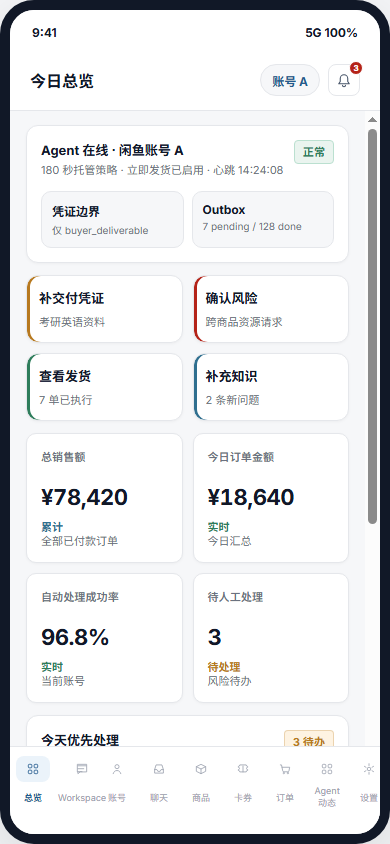
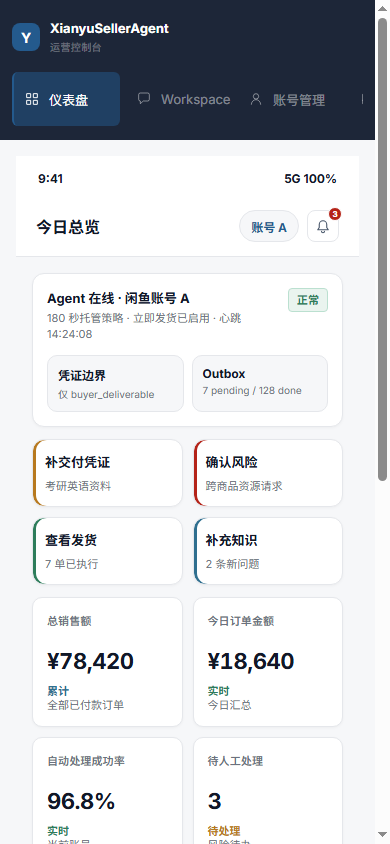
fix(仪表盘): 适配共享应用壳层

diff --git a/apps/web/src/features/dashboard/components/DashboardPage.tsx b/apps/web/src/features/dashboard/components/DashboardPage.tsx
@@ -1,9 +1,8 @@
 import { useState } from 'react';
 import type { PageKey } from '../../../app/navigation';
-import { navItems } from '../../../app/navigation';
 import type { DashboardApi } from '../api';
 import { useDashboardController } from '../controller';
-import { DashboardDesktopContent, DashboardMobileContent, Icon, Logo } from './DashboardViews';
+import { DashboardDesktopContent, DashboardMobileContent, Icon } from './DashboardViews';
 import './dashboard.css';
 
 export function DashboardPage({ api, apiMode, onNavigate }: { api?: DashboardApi; apiMode: 'live' | 'mock'; onNavigate: (page: PageKey) => void }) {
@@ -21,26 +20,14 @@ export function DashboardPage({ api, apiMode, onNavigate }: { api?: DashboardApi
 
   const activeTodo = controller.state.data?.riskTodos.find((item) => item.id === riskDrawer);
   return <div className="dashboard-experience">
-    <div className="dashboard-desktop-shell">
-      <DashboardSidebar page="dashboard" onNavigate={onNavigate}/>
-      <div className="dashboard-desktop-body"><main><DashboardDesktopContent state={controller.state} query={controller.query} apiMode={apiMode} onOpenTodo={openTodo} onRefresh={controller.reload} onTrendQueryChange={controller.setQuery}/></main></div>
-    </div>
-    <div className="dashboard-mobile-frame">
+    <div className="dashboard-desktop-content"><DashboardDesktopContent state={controller.state} query={controller.query} apiMode={apiMode} onOpenTodo={openTodo} onRefresh={controller.reload} onTrendQueryChange={controller.setQuery}/></div>
+    <div className="dashboard-mobile-content">
       <div className="dashboard-mobile-status"><span>9:41</span><span>5G 100%</span></div>
       <header className="dashboard-mobile-head"><div><strong>今日总览</strong></div><div className="dashboard-mobile-head-actions"><button type="button" className="dashboard-mobile-account-chip" onClick={() => onNavigate('accounts')}>账号 A</button><button type="button" className="dashboard-icon-button" aria-label="通知" onClick={() => openTodo('todo_001')}><Icon name="bell"/><b>3</b></button></div></header>
       <main className="dashboard-mobile-main"><DashboardMobileContent state={controller.state} onOpenTodo={openTodo}/></main>
-      <nav className="dashboard-mobile-tabs" aria-label="移动端主导航">{navItems.map((item) => <button type="button" key={item.key} className={item.key === 'dashboard' ? 'active' : ''} onClick={() => onNavigate(item.key)}><Icon name={item.icon}/><span>{item.key === 'dashboard' ? '总览' : item.label.replace('管理', '').replace('在线', '')}</span></button>)}</nav>
     </div>
     {activeTodo ? <aside className="dashboard-risk-drawer" role="dialog" aria-modal="true" aria-label="风险待办详情"><div className="dashboard-risk-drawer-card"><div className="dashboard-risk-drawer-head"><div><p className="dashboard-eyebrow">Risk Todo</p><h2>{activeTodo.title}</h2></div><button type="button" className="dashboard-icon-button" aria-label="关闭" onClick={() => setRiskDrawer(null)}>×</button></div><p>{activeTodo.detail}</p><div className="dashboard-risk-drawer-meta"><span>严重级别</span><strong className={`tone-${activeTodo.tone}`}>{activeTodo.severity}</strong></div><div className="dashboard-risk-drawer-actions"><button type="button" className="dashboard-btn dashboard-btn-ghost" onClick={() => setRiskDrawer(null)}>稍后处理</button><button type="button" className="dashboard-btn dashboard-btn-primary" onClick={() => { setRiskDrawer(null); onNavigate(activeTodo.href.slice(1) as PageKey); }}>去处理</button></div></div></aside> : null}
   </div>;
 }
 
-function DashboardSidebar({ page, onNavigate }: { page: PageKey; onNavigate: (page: PageKey) => void }) {
-  return <aside className="dashboard-sidebar">
-    <div className="dashboard-brand-block"><Logo/><div className="dashboard-brand-copy"><strong>Xianyu Agent</strong><span>Agent OS Console</span></div></div>
-    <div className="dashboard-side-section">Operations</div>
-    <nav className="dashboard-side-nav" aria-label="主导航">{navItems.map((item) => <button type="button" key={item.key} className={page === item.key ? 'active' : ''} aria-current={page === item.key ? 'page' : undefined} onClick={() => onNavigate(item.key)}><Icon name={item.icon}/><span>{item.label}</span><small>{item.sub}</small></button>)}</nav>
-    <div className="dashboard-sidebar-bottom"><div className="dashboard-side-card"><span className="dashboard-online-dot"/><b>Agent 运行中</b><small>当前账号：闲鱼账号 A<br/>外部写动作经 Policy Gateway 与 Outbox。</small></div><button type="button" className="dashboard-sidebar-alert" aria-label="待确认动作" onClick={() => undefined}><Icon name="bell"/><b>3</b><span>待确认动作</span></button><div className="dashboard-sidebar-user"><div className="dashboard-avatar">陈</div><div><strong>运营管理员</strong><span>资料自动发货店</span></div></div></div>
-  </aside>;
-}
 

diff --git a/apps/web/src/features/dashboard/components/dashboard.css b/apps/web/src/features/dashboard/components/dashboard.css
@@ -1,4 +1,6 @@
-.dashboard-experience{min-height:100vh;background:var(--bg);color:var(--text)}
+.dashboard-experience{min-height:100%;background:transparent;color:var(--text)}
+.dashboard-desktop-content{display:block}
+.dashboard-mobile-content{display:none}
 .dashboard-desktop-shell{width:100%;min-height:100vh;display:flex;overflow:hidden;background:var(--bg)}
 .dashboard-sidebar{width:224px;flex:0 0 224px;background:var(--sidebar);color:#fff;display:flex;flex-direction:column;padding:18px 14px}
 .dashboard-brand-block{height:46px;display:flex;align-items:center;gap:10px;margin-bottom:22px}
@@ -46,6 +48,7 @@
 @keyframes dashboard-shimmer{0%{background-position:200% 0}100%{background-position:-200% 0}}
 
 @media(max-width:900px){
+  .dashboard-desktop-content{display:none}.dashboard-mobile-content{display:flex;min-height:100%;flex-direction:column;background:var(--bg)}
   .dashboard-desktop-shell{display:none}.dashboard-mobile-frame{width:390px;height:844px;max-width:100vw;display:flex;position:relative;overflow:hidden;flex-direction:column;margin:0 auto;background:var(--bg);border:10px solid #111827;border-radius:34px;box-shadow:0 20px 80px rgba(0,0,0,.15)}
   .dashboard-mobile-status{height:44px;flex:0 0 44px;display:flex;align-items:center;justify-content:space-between;padding:0 22px;background:#fff;color:var(--text);font-size:12px;font-weight:700}.dashboard-mobile-head{flex:0 0 auto;display:flex;justify-content:space-between;align-items:center;padding:10px 20px 14px;background:#fff;border-bottom:1px solid var(--border)}.dashboard-mobile-head strong{font-size:16px}.dashboard-mobile-head-actions{display:flex;align-items:center;gap:8px}.dashboard-mobile-account-chip{height:32px;padding:0 11px;border:1px solid var(--border);border-radius:999px;background:var(--bg);color:var(--link);font-size:12px;font-weight:800}.dashboard-mobile-main{flex:1;overflow:auto;display:flex;flex-direction:column;gap:14px;padding:14px 16px 92px}.dashboard-mobile-tabs{position:absolute;bottom:0;left:0;right:0;display:flex;justify-content:space-around;gap:0;padding:8px 0 24px;border-top:1px solid var(--border);background:#fff}.dashboard-mobile-tabs button{border:0;background:transparent;color:var(--axis);display:grid;justify-items:center;gap:3px;font-size:9px;min-width:42px}.dashboard-mobile-tabs .dashboard-icon{width:34px;height:26px;padding:6px 8px;border-radius:8px}.dashboard-mobile-tabs button.active{color:var(--link);font-weight:800}.dashboard-mobile-tabs button.active .dashboard-icon{background:var(--soft-blue-bg)}
   .dashboard-mobile-page{display:flex;flex-direction:column;gap:12px}.dashboard-mobile-status-summary{padding:14px;border-radius:12px}.dashboard-mobile-section-head{display:flex;align-items:flex-start;justify-content:space-between;gap:10px;margin-bottom:12px}.dashboard-mobile-section-head h2{margin:0 0 4px;font-size:13px}.dashboard-mobile-section-head p{margin:0;font-size:11px;line-height:1.45}.dashboard-mobile-health-grid{display:grid;grid-template-columns:1fr 1fr;gap:8px}.dashboard-mobile-health-grid span{padding:10px;border:1px solid var(--border);border-radius:10px;background:var(--bg)}.dashboard-mobile-health-grid b{display:block;margin-bottom:3px;color:var(--text);font-size:12px}.dashboard-mobile-health-grid small{display:block;color:var(--sub);font-size:10px}
